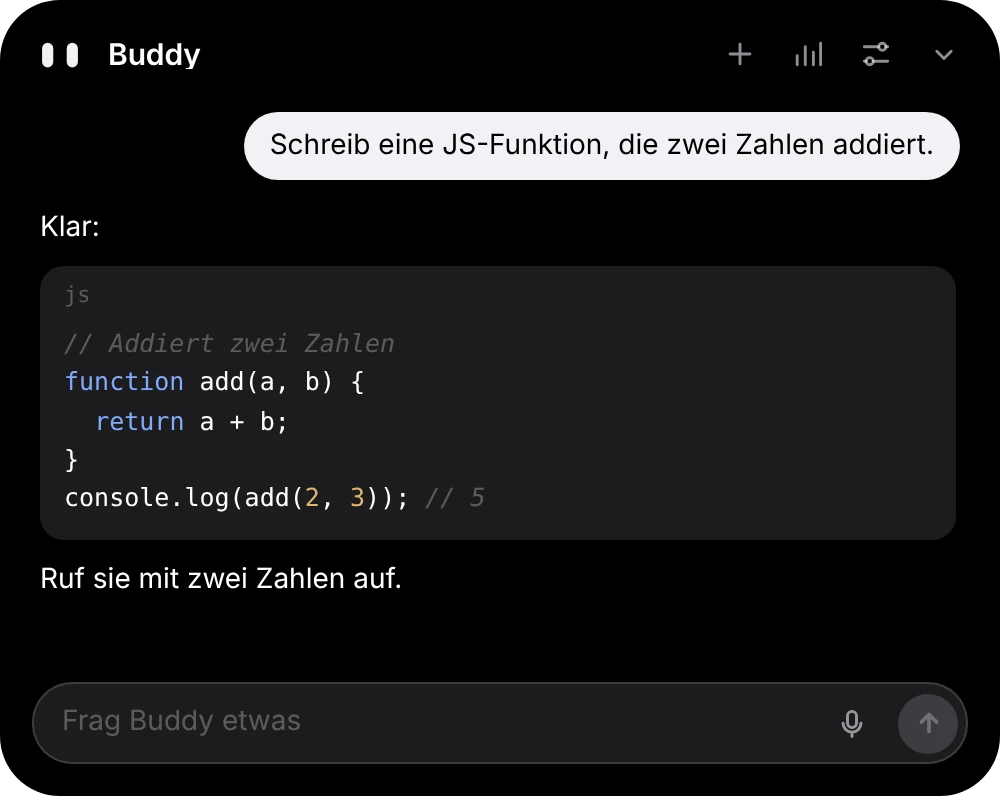
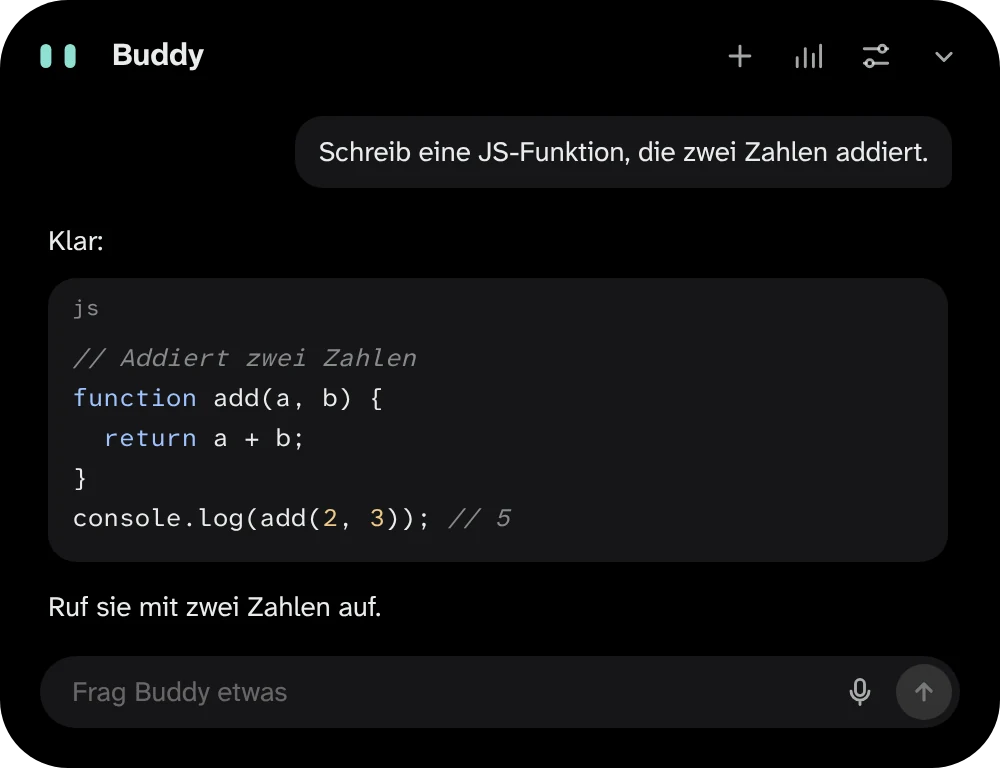
Website für Version 0.11: neues Aussehen «Nachtinsel»
- Alle Bildschirmfotos neu aus der App (Chat mit Code, Wissen, Mitteilung und
  Timer, PC-Steuerung, lokale KI), transparent wie bisher
- Vorschaubild (og.png) neu, Augen im Logo in der Farbe «Lagune»
- «Neu in 0.11.0» als Ausweichtext, neue Frage «Gibt es Buddy auch hell?»

Claude-Session: https://claude.ai/code/session_019aeRarCEyN9U91pjxW7b7J

diff --git a/index.html b/index.html
@@ -50,11 +50,11 @@
         <a class="btn" href="https://github.com/wolfawidmer-sudo/buddy-island/releases/latest" data-download>Für Windows herunterladen</a>
         <a class="link" href="https://github.com/wolfawidmer-sudo/buddy-island">Quellcode ansehen</a>
       </div>
-      <p class="meta"><span data-version>Neuste Version</span><span data-size></span> · kostenlos · MIT-Lizenz</p>
+      <p class="meta"><span data-version>Version 0.11.0</span><span data-size></span> · kostenlos · MIT-Lizenz</p>
 
       <figure class="stage">
         <div class="stage-screen">
-          <img class="stage-island" src="img/chat-code.webp" width="1000" height="796" alt="Das geöffnete Buddy-Island oben am Bildschirm: Buddy schreibt eine JavaScript-Funktion, der Code ist farbig hervorgehoben.">
+          <img class="stage-island" src="img/chat-code.webp" width="1000" height="768" alt="Das geöffnete Buddy-Island oben am Bildschirm: Buddy schreibt eine JavaScript-Funktion, der Code ist farbig hervorgehoben.">
         </div>
         <figcaption>Die Insel geöffnet: eine Frage, eine Antwort mit hervorgehobenem Code. Geschlossen zeigt sie nur zwei Augen.</figcaption>
       </figure>
@@ -68,14 +68,14 @@
             <h3>Fragen und schreiben</h3>
             <p>Lass dir etwas erklären, einen Text formulieren oder Code schreiben. Antworten erscheinen Wort für Wort, Code ist hervorgehoben und mit einem Klick kopiert. Gefällt eine Antwort nicht, lässt du sie neu schreiben.</p>
           </div>
-          <img class="shot" src="img/open-ai.webp" width="1000" height="770" loading="lazy" alt="Buddy beantwortet die Frage, wie viel Arbeitsspeicher man zum Gamen braucht.">
+          <img class="shot" src="img/open-ai.webp" width="1000" height="660" loading="lazy" alt="Buddy beantwortet die Frage, wie viel Arbeitsspeicher man zum Gamen braucht.">
         </article>
         <article class="row">
           <div class="row-text">
             <h3>Kleines für den Alltag</h3>
             <p>«Stell einen Timer für die Pizza» genügt. Windows-Mitteilungen erscheinen kurz oben in der Insel, Termine aus deinem Kalender meldet Buddy rechtzeitig, und die laufende Musik steuerst du direkt dort.</p>
           </div>
-          <img class="shot" src="img/open-timer.webp" width="1000" height="806" loading="lazy" alt="Die Insel mit einer WhatsApp-Mitteilung und einem laufenden Pizza-Timer.">
+          <img class="shot" src="img/open-timer.webp" width="1000" height="734" loading="lazy" alt="Die Insel mit einer WhatsApp-Mitteilung und einem laufenden Pizza-Timer.">
         </article>
         <article class="row">
           <div class="row-text">
@@ -118,7 +118,7 @@
           <p class="small">Modelle, die nicht in deinen Speicher passen, kann Buddy mit <a href="https://github.com/JustVugg/colibri">Colibrì</a> laufen lassen. Das ist langsamer, weil Teile von der SSD kommen. Buddy schlägt es nur vor, wenn Ollama nicht reicht.</p>
         </div>
         <figure>
-          <img class="shot" src="img/local-setup.webp" width="1000" height="824" loading="lazy" alt="Ersteinrichtung in der Insel: Buddy zeigt den PC, ein empfohlenes Modell mit Download-Grösse und den Knopf Einrichten.">
+          <img class="shot" src="img/local-setup.webp" width="1000" height="964" loading="lazy" alt="Ersteinrichtung in der Insel: Buddy zeigt den PC, ein empfohlenes Modell mit Download-Grösse und den Knopf Einrichten.">
           <figcaption>Beispiel auf einem PC mit 12 GB Grafikspeicher. Was Buddy vorschlägt, hängt von deinem PC ab.</figcaption>
         </figure>
       </div>
@@ -135,9 +135,12 @@
     </section>
 
     <section class="block wrap" id="neu" aria-labelledby="neu-t">
-      <h2 id="neu-t">Neu in <span data-version>der neusten Version</span></h2>
+      <h2 id="neu-t">Neu in <span data-version>Version 0.11.0</span></h2>
       <ul class="news" id="newsList">
-        <li><h3>Lokale KI mit einem Klick</h3><p>Buddy prüft deinen PC, empfiehlt ein passendes Modell und richtet es ein.</p></li>
+        <li><h3>Ein ruhigeres Aussehen</h3><p>Buddy ist jetzt offen wie geschlossen eine schwarze Insel. Weniger Kästen, mehr Ruhe: Inhalte stehen direkt da, und Buddys Augen zeigen, was gerade aktiv ist.</p></li>
+        <li><h3>Leichter zu lesen</h3><p>Eine neue Schrift, gemacht für gute Lesbarkeit, auch bei kleinen Texten. Sie ist in Buddy eingebaut und braucht kein Internet.</p></li>
+        <li><h3>Hell oder dunkel</h3><p>Unter Einstellungen › Erscheinungsbild wählst du Dunkel, Hell oder wie Windows. Geschlossen bleibt die Insel immer schwarz.</p></li>
+        <li><h3>Neue Farbe «Lagune»</h3><p>Buddys neue Standardfarbe für die Augen. Jede Akzentfarbe bleibt jetzt in Hell und Dunkel gut lesbar.</p></li>
       </ul>
       <a class="link" href="https://github.com/wolfawidmer-sudo/buddy-island/releases">Alle Versionen auf GitHub</a>
     </section>
@@ -165,6 +168,7 @@
         <details id="faq-local"><summary>Wie schnell ist die lokale KI?</summary><p>Das hängt vom PC ab. Mit einer Grafikkarte, in die das Modell passt, antwortet sie flüssig; nur mit dem Prozessor deutlich langsamer. Buddy zeigt vor dem Download eine grobe Einschätzung und kann das Tempo auf deinem PC messen.</p></details>
         <details id="faq-colibri"><summary>Was ist Colibrì?</summary><p>Ein eigenständiges Open-Source-Programm, das sehr grosse Modelle laufen lässt, indem es Teile von der SSD liest. Buddy nutzt es nur für Modelle, die mit Ollama nicht in den Speicher passen, und sagt dir das. Es ist dann langsamer.</p></details>
         <details id="faq-screen"><summary>Sieht Buddy ständig meinen Bildschirm?</summary><p>Nein. Nur während einer Aufgabe, für die du ihm die PC-Steuerung erlaubt hast. Solange er hinschaut, leuchtet der Bildschirmrand; ohne diesen Rand nimmt er nichts auf. Läuft ein Spiel, pausiert er.</p></details>
+        <details id="faq-theme"><summary>Gibt es Buddy auch hell?</summary><p>Ja. Unter Einstellungen → Erscheinungsbild wählst du Dunkel, Hell oder wie Windows. Geschlossen bleibt die Insel immer schwarz, die Augen haben deine Akzentfarbe.</p></details>
         <details id="faq-games"><summary>Stört Buddy beim Spielen?</summary><p>Läuft ein Spiel im Vordergrund, blendet Buddy sich aus: keine Einblendungen, kein Ton, keine Steuerung. Verpasste Mitteilungen siehst du danach.</p></details>
         <details id="faq-windows"><summary>Welche Windows-Versionen?</summary><p>Windows 10 ab Version 1809 und Windows 11, jeweils 64 Bit. Die lokale KI mit Ollama braucht Windows 10 22H2 oder neuer.</p></details>
         <details id="faq-remove"><summary>Wie entferne ich Buddy?</summary><p>Windows-Einstellungen → Apps → Installierte Apps → Buddy Island → Deinstallieren. Für alles den Ordner <code>%APPDATA%\Buddy Island</code> löschen. Ollama und Colibrì sind eigene Programme und bleiben, bis du sie entfernst.</p></details>

diff --git a/style.css b/style.css
@@ -45,7 +45,7 @@ code { font: 0.9em var(--mono); background: var(--paper-2); padding: 1px 5px; bo
 .top-row { display: flex; align-items: center; gap: 28px; height: 60px; }
 .mark { display: inline-flex; align-items: center; gap: 10px; font: 650 17px var(--display); color: var(--ink); text-decoration: none; margin: 0; }
 .eyes { display: inline-flex; gap: 3px; padding: 6px 9px; background: var(--island); border-radius: 999px; }
-.eyes i { width: 4px; height: 9px; background: #fff; border-radius: 2px; }
+.eyes i { width: 4px; height: 9px; background: #8ee0d2; border-radius: 2px; } /* «Lagune», wie Buddys Augen in der App */
 .nav { display: flex; gap: 24px; list-style: none; margin: 0; padding: 0; }
 .nav a { color: var(--ink-2); text-decoration: none; font-size: 15px; }
 .nav a:hover { color: var(--ink); }
